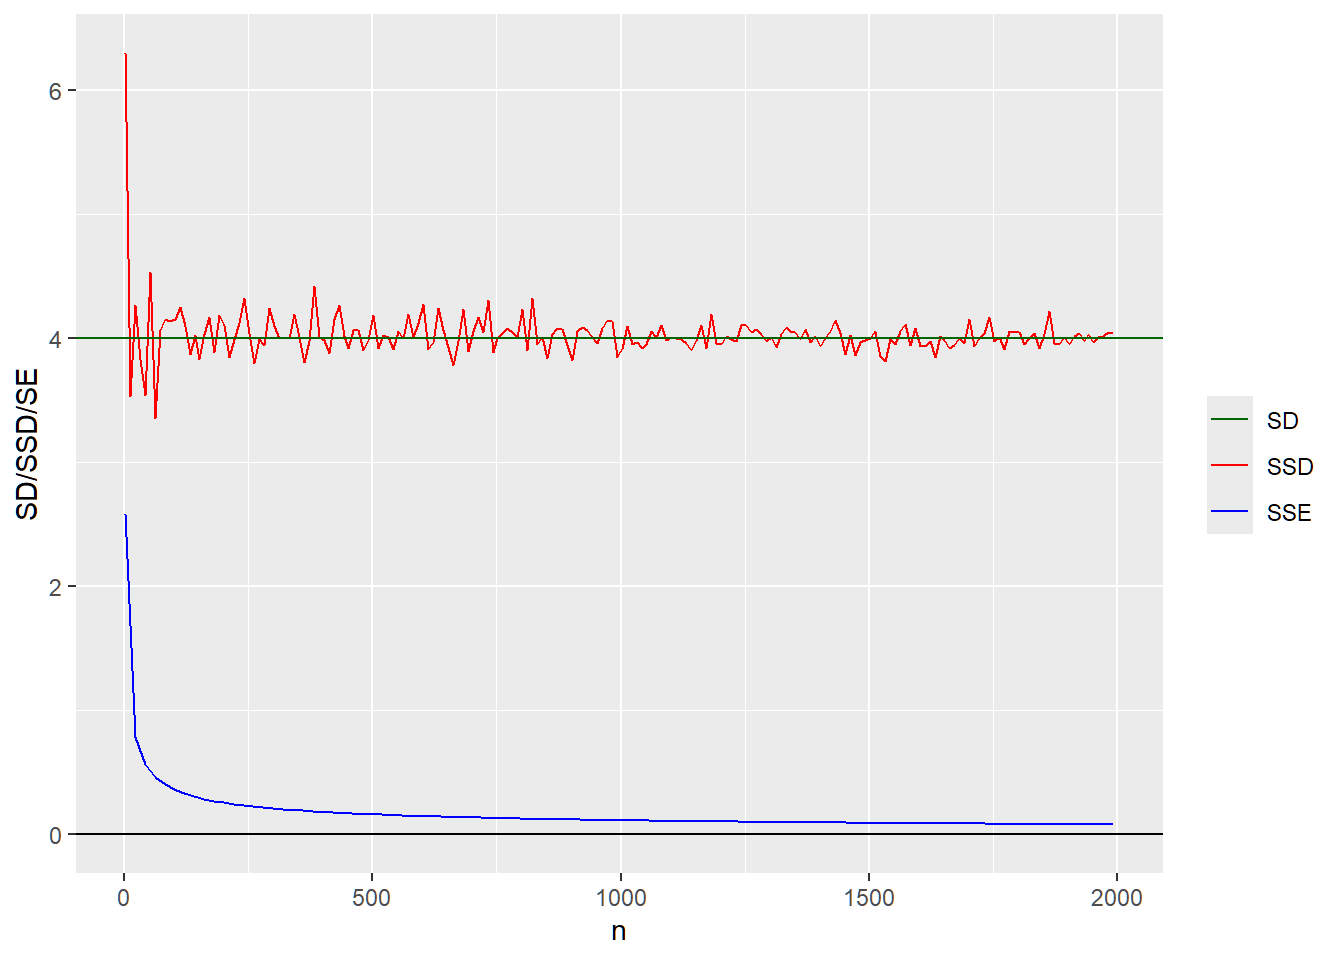
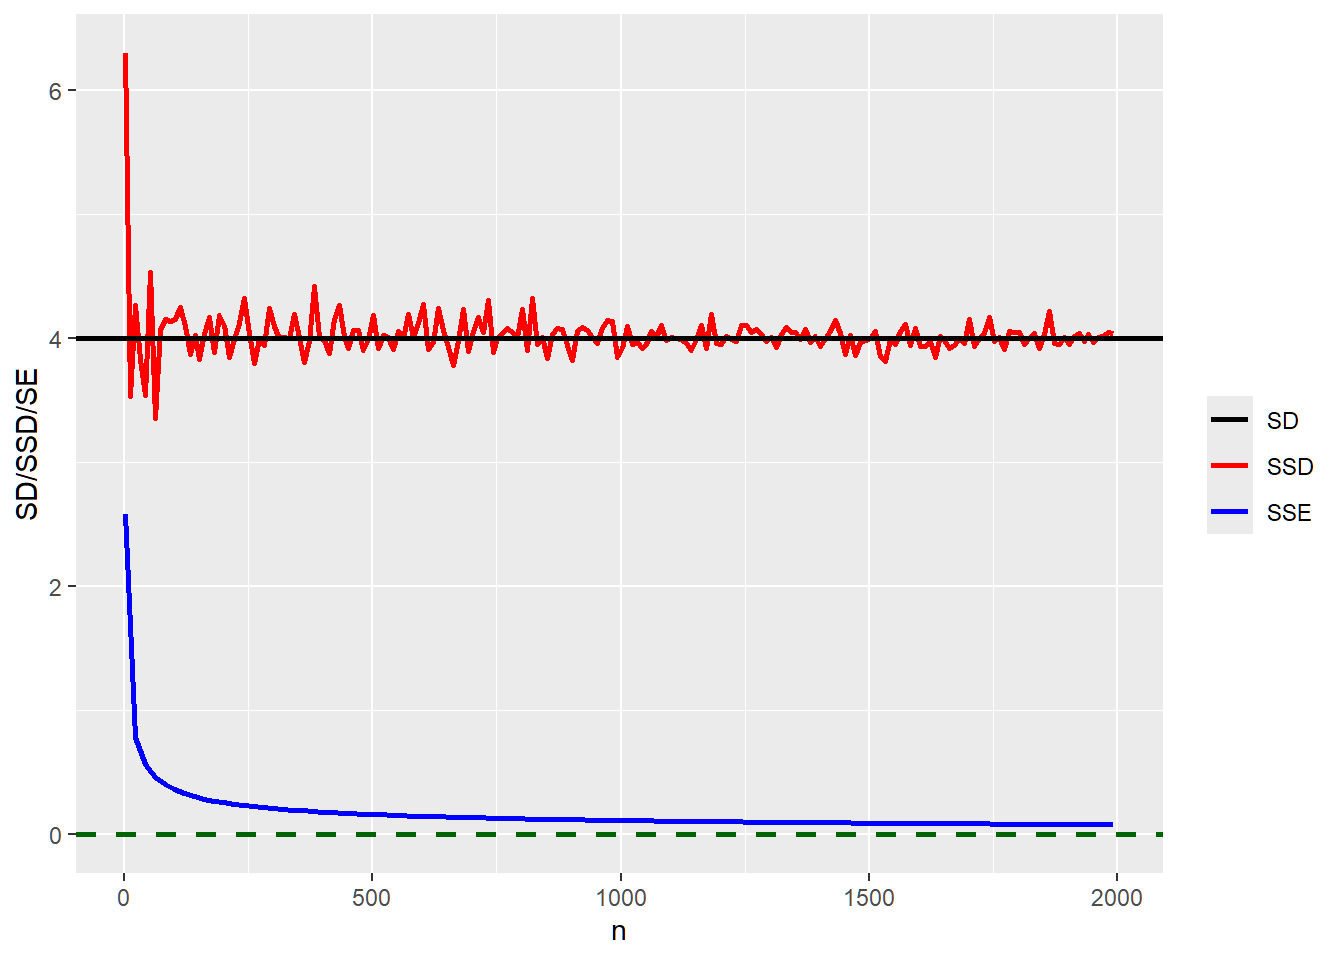
stderror

Changed region(s): [[0.0625, 0.2812, 0.875, 0.4375], [0.0625, 0.8125, 0.8438, 0.875]]

diff --git a/docs/blogs/Standard error/Standard Deviation, Sample Standard Deviation and Standard Error.html b/docs/blogs/Standard error/Standard Deviation, Sample Standard Deviation and Standard Error.html
@@ -282,28 +282,30 @@ window.Quarto = {
 <section id="standard-errors" class="level1 justify">
 <h1>Standard Errors</h1>
 <p>Due to the variability in the estimates, we need to figure out how to quantify the variations. Standard error is one way to do that. Standard error indicates the reliability of a statistic. It is easier to think of a standard error(SE) as the <strong>standard deviation of a statistic</strong>. Here, we demonstrate the distinction using the sample mean. For a sample mean, SE is denoted as <span class="math display">\[\sigma_{\bar{X}} = \frac{\sigma}{\sqrt{n}} = \frac{\hat{\sigma}}{\sqrt{n}}\]</span> Do you recall why we are replacing <span class="math inline">\(\sigma\)</span> with <span class="math inline">\(\hat{\sigma}\)</span>?</p>
-<p>The following code helps demonstrate the differences.</p>
+<p>The following R code helps demonstrate the differences.</p>
 <div class="cell" data-layout-align="center">
 <div class="sourceCode cell-code" id="cb9"><pre class="sourceCode r code-with-copy"><code class="sourceCode r"><span id="cb9-1"><a href="#cb9-1" aria-hidden="true" tabindex="-1"></a><span class="fu">set.seed</span>(<span class="dv">5</span>)</span>
 <span id="cb9-2"><a href="#cb9-2" aria-hidden="true" tabindex="-1"></a></span>
 <span id="cb9-3"><a href="#cb9-3" aria-hidden="true" tabindex="-1"></a><span class="co">#sample sizes</span></span>
 <span id="cb9-4"><a href="#cb9-4" aria-hidden="true" tabindex="-1"></a>n <span class="ot">&lt;-</span> <span class="fu">seq</span>(<span class="dv">2</span>, <span class="dv">2000</span>, <span class="at">by =</span> <span class="dv">10</span>)</span>
 <span id="cb9-5"><a href="#cb9-5" aria-hidden="true" tabindex="-1"></a></span>
-<span id="cb9-6"><a href="#cb9-6" aria-hidden="true" tabindex="-1"></a><span class="co">#compute ssd for each n</span></span>
+<span id="cb9-6"><a href="#cb9-6" aria-hidden="true" tabindex="-1"></a><span class="co">#compute sample sd for a random sample of size n</span></span>
 <span id="cb9-7"><a href="#cb9-7" aria-hidden="true" tabindex="-1"></a>SSD <span class="ot">&lt;-</span> <span class="fu">map_dbl</span>(n, \(n) <span class="fu">sd</span>(<span class="fu">rnorm</span>(n, <span class="dv">10</span>, <span class="dv">4</span>)))</span>
 <span id="cb9-8"><a href="#cb9-8" aria-hidden="true" tabindex="-1"></a></span>
 <span id="cb9-9"><a href="#cb9-9" aria-hidden="true" tabindex="-1"></a><span class="co">#function for SE of the mean statistic</span></span>
-<span id="cb9-10"><a href="#cb9-10" aria-hidden="true" tabindex="-1"></a>SSE <span class="ot">&lt;-</span> <span class="cf">function</span>(n) <span class="fu">sd</span>(<span class="fu">rnorm</span>(n, <span class="dv">10</span>, <span class="dv">4</span>))<span class="sc">/</span><span class="fu">sqrt</span>(n)</span>
-<span id="cb9-11"><a href="#cb9-11" aria-hidden="true" tabindex="-1"></a></span>
-<span id="cb9-12"><a href="#cb9-12" aria-hidden="true" tabindex="-1"></a><span class="fu">ggplot</span>() <span class="sc">+</span></span>
-<span id="cb9-13"><a href="#cb9-13" aria-hidden="true" tabindex="-1"></a>  <span class="fu">geom_function</span>(<span class="at">fun =</span> SSE, <span class="fu">aes</span>(<span class="at">color =</span> <span class="st">"SSE"</span>))<span class="sc">+</span></span>
-<span id="cb9-14"><a href="#cb9-14" aria-hidden="true" tabindex="-1"></a>  <span class="fu">geom_line</span>(<span class="at">data =</span> <span class="fu">tibble</span>(n, SSD), <span class="at">mapping =</span> <span class="fu">aes</span>(n, SSD, <span class="at">color =</span> <span class="st">"SSD"</span>))<span class="sc">+</span></span>
-<span id="cb9-15"><a href="#cb9-15" aria-hidden="true" tabindex="-1"></a>  <span class="fu">geom_hline</span>(<span class="fu">aes</span>(<span class="at">yintercept =</span> <span class="dv">4</span>, <span class="at">color =</span> <span class="st">"SD"</span>))<span class="sc">+</span></span>
-<span id="cb9-16"><a href="#cb9-16" aria-hidden="true" tabindex="-1"></a>  <span class="fu">geom_hline</span>(<span class="at">yintercept =</span> <span class="dv">0</span>)<span class="sc">+</span></span>
-<span id="cb9-17"><a href="#cb9-17" aria-hidden="true" tabindex="-1"></a>  <span class="fu">xlim</span>(<span class="dv">2</span>, <span class="fu">max</span>(n))<span class="sc">+</span></span>
-<span id="cb9-18"><a href="#cb9-18" aria-hidden="true" tabindex="-1"></a>  <span class="fu">scale_color_manual</span>(<span class="at">name =</span> <span class="st">""</span>, </span>
-<span id="cb9-19"><a href="#cb9-19" aria-hidden="true" tabindex="-1"></a>                     <span class="at">values =</span> <span class="fu">c</span>(<span class="st">"SSE"</span> <span class="ot">=</span> <span class="st">"blue"</span>, <span class="st">"SSD"</span> <span class="ot">=</span> <span class="st">"red"</span>, <span class="st">"SD"</span> <span class="ot">=</span> <span class="st">"darkgreen"</span>))<span class="sc">+</span></span>
-<span id="cb9-20"><a href="#cb9-20" aria-hidden="true" tabindex="-1"></a>  <span class="fu">labs</span>(<span class="at">y =</span> <span class="st">"SD/SSD/SE"</span>)</span></code><button title="Copy to Clipboard" class="code-copy-button"><i class="bi"></i></button></pre></div>
+<span id="cb9-10"><a href="#cb9-10" aria-hidden="true" tabindex="-1"></a>SSE <span class="ot">&lt;-</span> <span class="cf">function</span>(n)</span>
+<span id="cb9-11"><a href="#cb9-11" aria-hidden="true" tabindex="-1"></a>  <span class="fu">sd</span>(<span class="fu">rnorm</span>(n, <span class="dv">10</span>, <span class="dv">4</span>)) <span class="sc">/</span> <span class="fu">sqrt</span>(n)</span>
+<span id="cb9-12"><a href="#cb9-12" aria-hidden="true" tabindex="-1"></a></span>
+<span id="cb9-13"><a href="#cb9-13" aria-hidden="true" tabindex="-1"></a><span class="fu">ggplot</span>() <span class="sc">+</span></span>
+<span id="cb9-14"><a href="#cb9-14" aria-hidden="true" tabindex="-1"></a>  <span class="fu">geom_function</span>(<span class="at">fun =</span> SSE, <span class="fu">aes</span>(<span class="at">color =</span> <span class="st">"SSE"</span>), <span class="at">linewidth =</span> .<span class="dv">9</span>) <span class="sc">+</span></span>
+<span id="cb9-15"><a href="#cb9-15" aria-hidden="true" tabindex="-1"></a>  <span class="fu">geom_line</span>(<span class="at">data =</span> <span class="fu">tibble</span>(n, SSD), <span class="at">mapping =</span> <span class="fu">aes</span>(n, SSD, <span class="at">color =</span> <span class="st">"SSD"</span>), <span class="at">linewidth =</span> .<span class="dv">9</span></span>
+<span id="cb9-16"><a href="#cb9-16" aria-hidden="true" tabindex="-1"></a>  ) <span class="sc">+</span></span>
+<span id="cb9-17"><a href="#cb9-17" aria-hidden="true" tabindex="-1"></a>  <span class="fu">geom_hline</span>(<span class="fu">aes</span>(<span class="at">yintercept =</span> <span class="dv">4</span>, <span class="at">color =</span> <span class="st">"SD"</span>), <span class="at">linewidth =</span> .<span class="dv">9</span>) <span class="sc">+</span></span>
+<span id="cb9-18"><a href="#cb9-18" aria-hidden="true" tabindex="-1"></a>  <span class="fu">geom_hline</span>(<span class="at">yintercept =</span> <span class="dv">0</span>, <span class="at">linetype =</span> <span class="dv">2</span>, <span class="at">linewidth =</span> .<span class="dv">9</span>, <span class="at">color  =</span> <span class="st">"darkgreen"</span>) <span class="sc">+</span></span>
+<span id="cb9-19"><a href="#cb9-19" aria-hidden="true" tabindex="-1"></a>  <span class="fu">scale_color_manual</span>(<span class="at">name =</span> <span class="st">""</span>,</span>
+<span id="cb9-20"><a href="#cb9-20" aria-hidden="true" tabindex="-1"></a>                     <span class="at">values =</span> <span class="fu">c</span>(<span class="st">"SSE"</span> <span class="ot">=</span> <span class="st">"blue"</span>,<span class="st">"SSD"</span> <span class="ot">=</span> <span class="st">"red"</span>,<span class="st">"SD"</span> <span class="ot">=</span> <span class="st">"black"</span>))<span class="sc">+</span></span>
+<span id="cb9-21"><a href="#cb9-21" aria-hidden="true" tabindex="-1"></a>  <span class="fu">xlim</span>(<span class="dv">2</span>, <span class="fu">max</span>(n)) <span class="sc">+</span></span>
+<span id="cb9-22"><a href="#cb9-22" aria-hidden="true" tabindex="-1"></a>  <span class="fu">labs</span>(<span class="at">y =</span> <span class="st">"SD/SSD/SE"</span>)</span></code><button title="Copy to Clipboard" class="code-copy-button"><i class="bi"></i></button></pre></div>
 <div class="cell-output-display">
 <div class="quarto-figure quarto-figure-center">
 <figure class="figure">

diff --git a/docs/blogs.html b/docs/blogs.html
@@ -224,7 +224,7 @@ window.Quarto = {
 </a>
 </div>
 </div>
-<div class="quarto-post image-right" data-index="1" data-listing-date-sort="1741669200000" data-listing-file-modified-sort="1741683267101" data-listing-date-modified-sort="NaN" data-listing-reading-time-sort="5" data-listing-word-count-sort="994">
+<div class="quarto-post image-right" data-index="1" data-listing-date-sort="1741669200000" data-listing-file-modified-sort="1741687703287" data-listing-date-modified-sort="NaN" data-listing-reading-time-sort="6" data-listing-word-count-sort="1026">
 <div class="thumbnail">
 <p><a href="./blogs/Standard error/Standard Deviation, Sample Standard Deviation and Standard Error.html" class="no-external"></a></p><a href="./blogs/Standard error/Standard Deviation, Sample Standard Deviation and Standard Error.html" class="no-external">
 <p class="card-img-top"><img src="blogs\Standard error\Standard-Deviation,-Sample-Standard-Deviation-and-Standard-Error_files\figure-html\unnamed-chunk-3-1.png"  class="thumbnail-image card-img"/></p>
